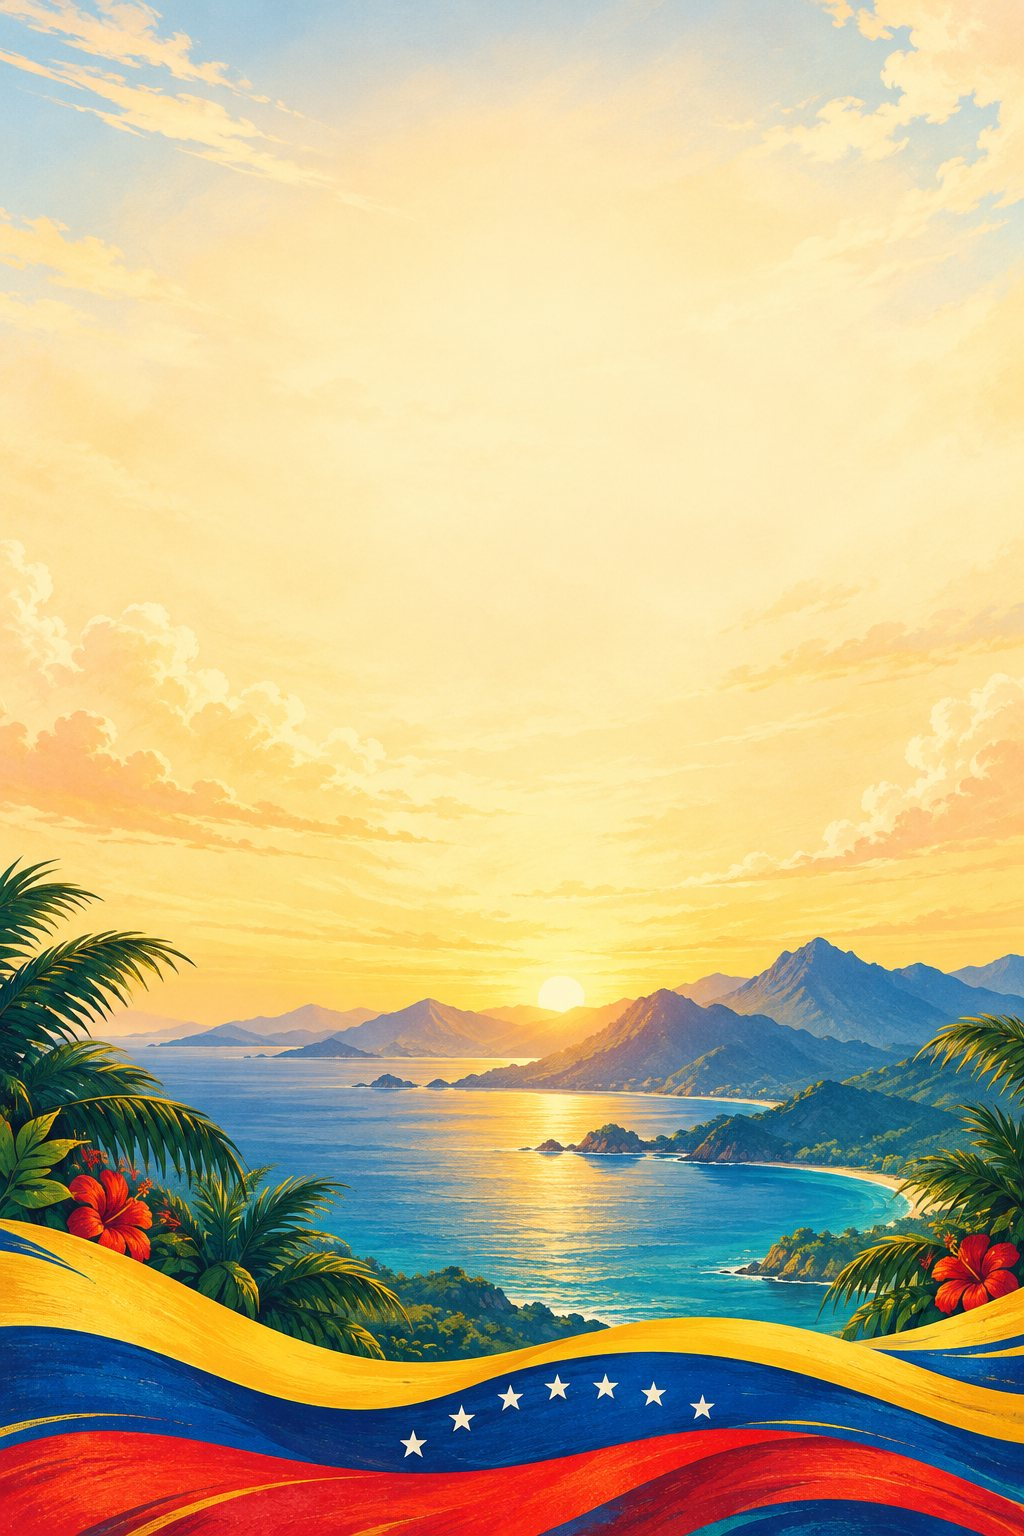
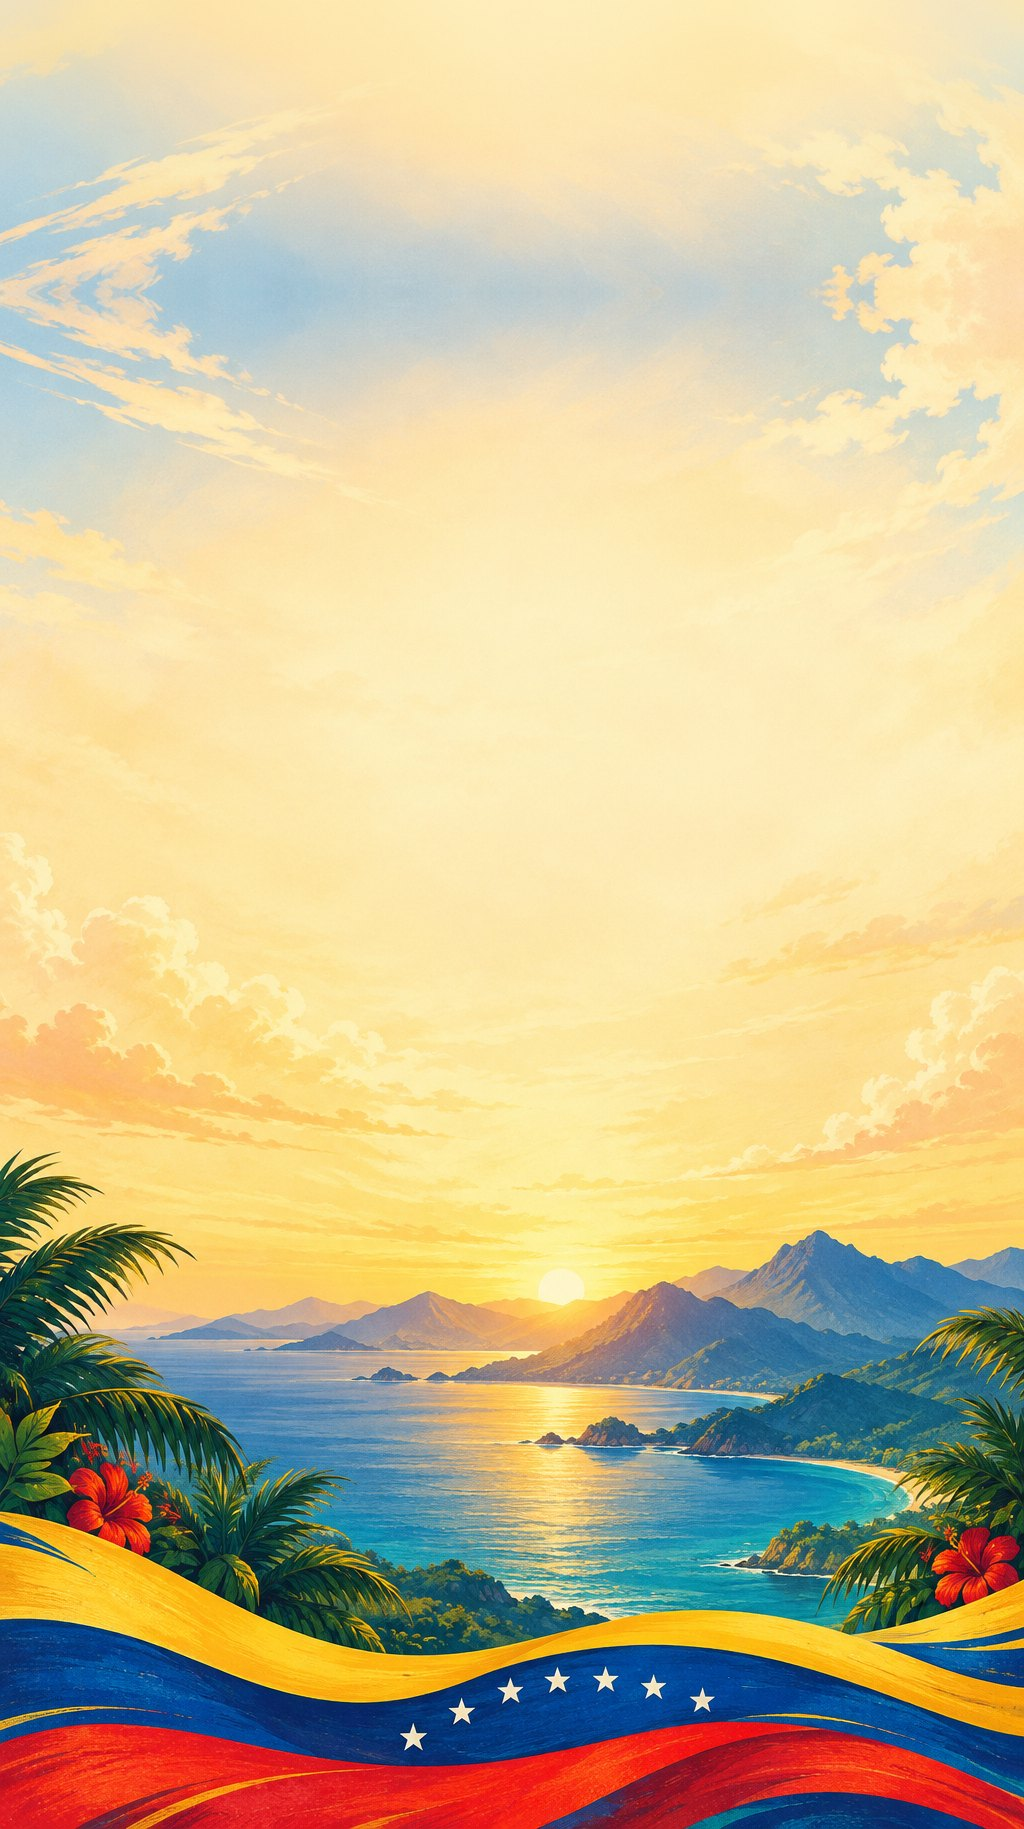
Add files via upload

diff --git a/index.html b/index.html
@@ -23,8 +23,8 @@
 <style>
 /* Layout: full-bleed Venezuelan coast photo, one centred glass panel holding the single field. */
 :root{
-  --panel:rgba(255,249,238,.84);
-  --panel-blur:rgba(255,249,238,.62);
+  --panel:rgba(255,250,240,.90);
+  --panel-blur:rgba(255,250,240,.80);
   --panel-line:rgba(255,255,255,.45);
   --field:rgba(255,255,255,.80);
   --field-line:rgba(19,36,63,.26);
@@ -49,14 +49,14 @@ body{
   background-color:#F3C76A;
   background-image:url("bg.jpg");
   background-size:cover;
-  background-position:center center;
+  background-position:center bottom;
   background-repeat:no-repeat;
   background-attachment:scroll;
   padding:env(safe-area-inset-top,0px) 16px calc(20px + env(safe-area-inset-bottom,0px));
-  display:flex; flex-direction:column; align-items:center; justify-content:center;
+  display:flex; flex-direction:column; align-items:center; justify-content:flex-start;
 }
 
-main{width:100%;max-width:370px;padding-block:18px}
+main{width:100%;max-width:370px;padding-block:14px 18px}
 
 .panel{
   background:var(--panel);
